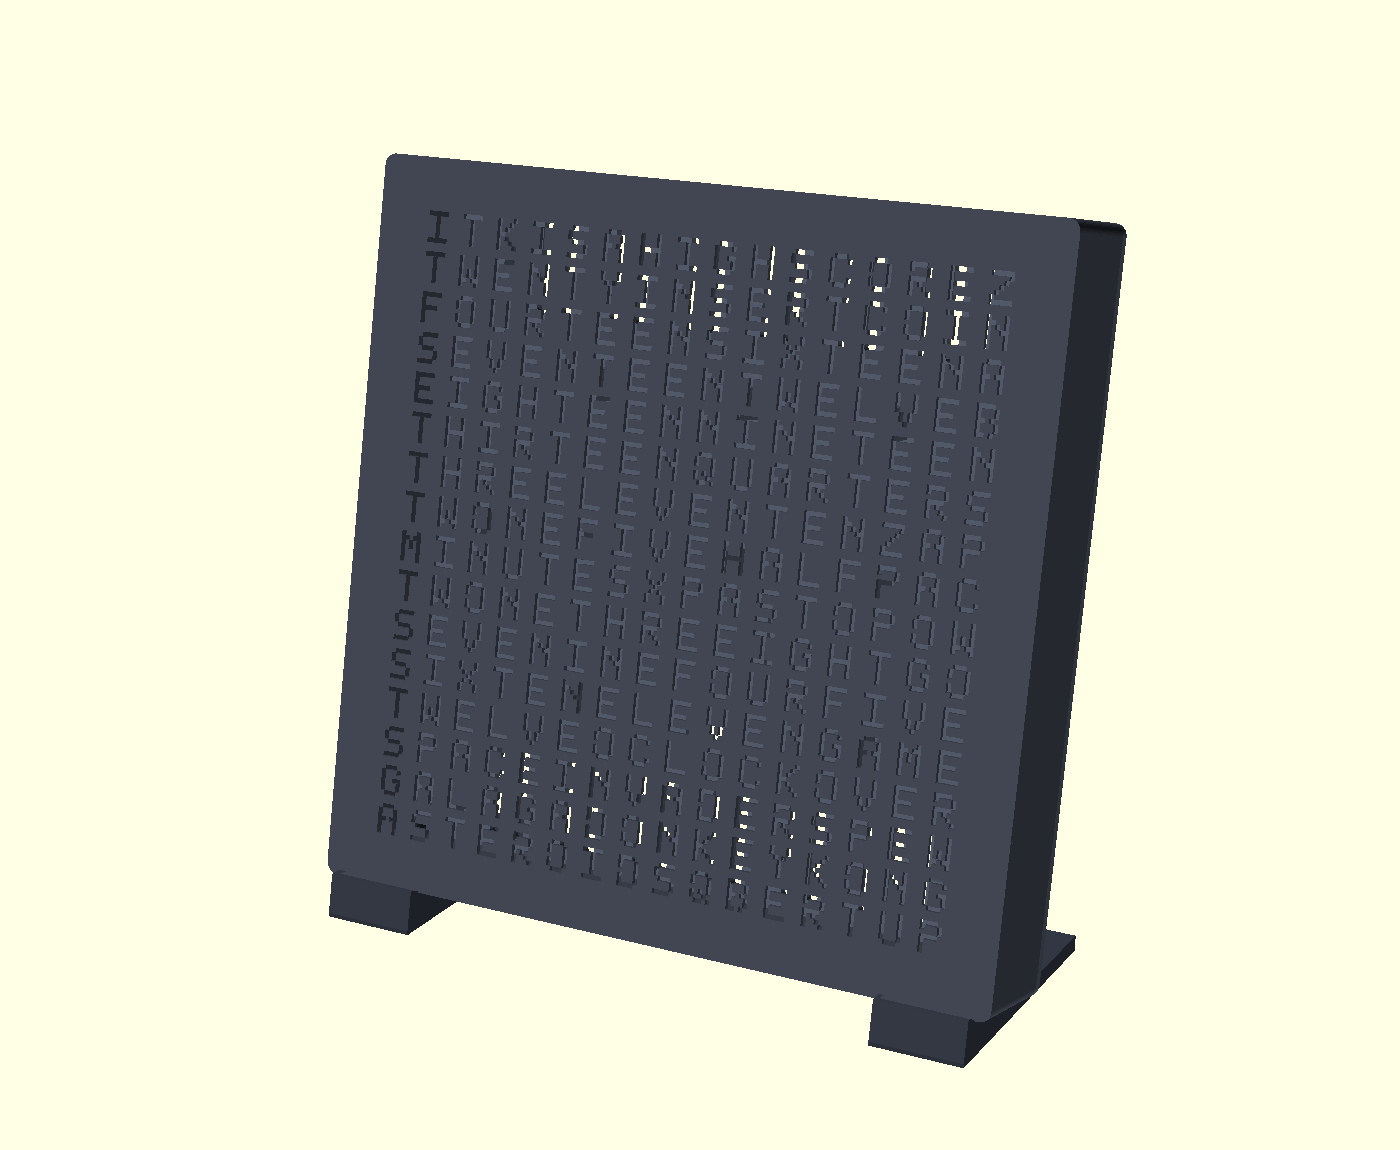
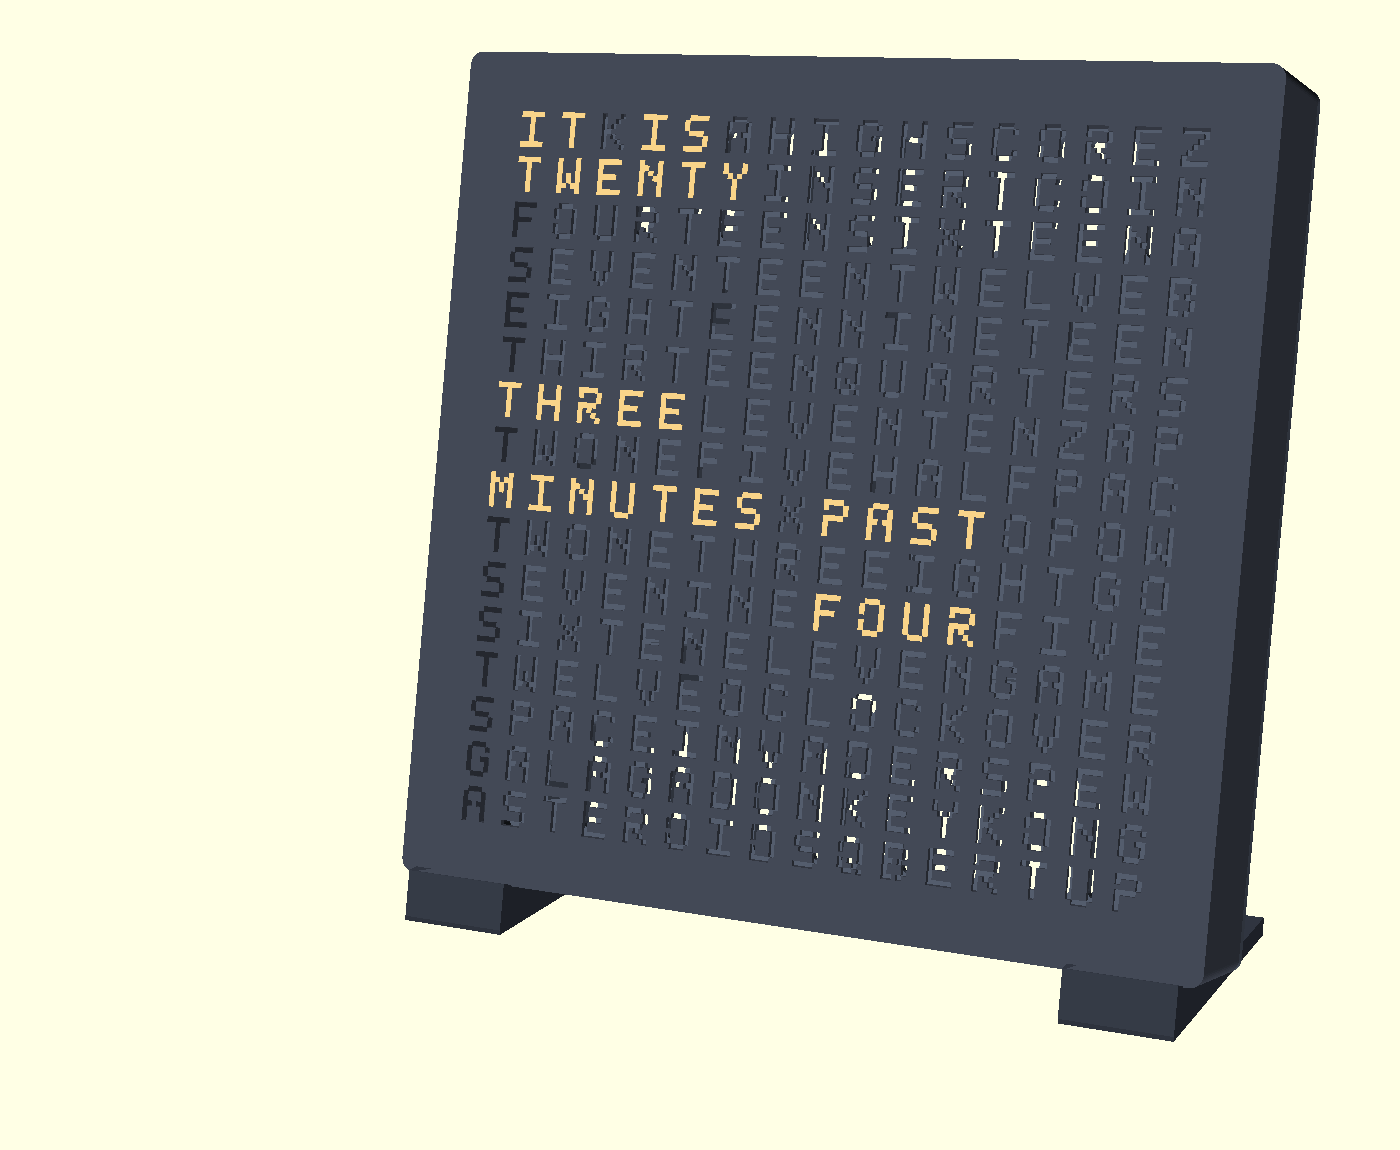
Light the face up in the README renders (face_display toggle)
New preview-only face_display param ("off"/"time"/"invaders") drops
bright glyphs into the stencil voids so assembly renders show the
clock switched on. Hero render now reads IT IS TWENTY THREE MINUTES
PAST FOUR; a second render shows a Space Invaders attract frame.
Word/sprite tables match the firmware. Render commands in DEVLOG.

diff --git a/DEVLOG.md b/DEVLOG.md
@@ -554,3 +554,31 @@ still running warm.
 
 **Reprint required:** `shell()` only — the stencil, diffuser, lattice,
 and panel side of the stack are unchanged.
+
+## README hero renders — lighting the face up (`face_display`)
+
+The landing-page render originally showed the enclosure dark. Since
+the letters are through-voids, "switching the clock on" in a render is
+just dropping bright glyphs into the voids — `face_display` ("off" /
+"time" / "invaders", in the [Part] Customizer tab) does exactly that,
+reusing `letters2d`'s placement/mirror so the lit glyphs land in the
+stencil voids, filled through the plate and 0.05 proud of the front
+face. Preview-only: it draws inside `device()`, so no printable part
+is affected. Word coordinates and the invader/cannon sprites are the
+firmware's own tables (`grid.cpp` / `animations.cpp`, mirrored in
+`docs/simulator.html`).
+
+The committed renders (both 1400×1150, same camera so they read as a
+pair):
+
+```
+openscad -o renders/assembly.png          --imgsize=1400,1150 \
+  --camera=0,0,92,78,0,25,560 -D 'face_display="time"'     wordclock.scad
+openscad -o renders/assembly_invaders.png --imgsize=1400,1150 \
+  --camera=0,0,92,78,0,25,560 -D 'face_display="invaders"' wordclock.scad
+```
+
+`-o png` without `--render` uses the (fast, colour-capable) preview
+renderer, which is what the colour() calls need anyway. The "time"
+frame shows 4:23 — IT IS TWENTY THREE MINUTES PAST FOUR, the same
+per-minute example the README leads with.

diff --git a/README.md b/README.md
@@ -1,6 +1,6 @@
 # TIME INVADERS — arcade word clock
 
-![Assembled word clock on its desk feet](renders/assembly.png)
+![Assembled word clock on its desk feet showing IT IS TWENTY THREE MINUTES PAST FOUR](renders/assembly.png)
 
 A 16×16 word clock with an 8-bit arcade heart: the time reads as words
 to the exact minute (`IT IS TWENTY THREE MINUTES PAST FOUR`), but time
@@ -10,6 +10,12 @@ resolves into the new one — and the filler letters hide arcade words
 DONKEY KONG, ASTEROIDS, Q*BERT). The enclosure is deliberately subtle —
 a plain dark slab that passes at a work desk, on raked feet or
 wall-mounted; the arcade lives in the light, not the shell.
+
+<img src="renders/assembly_invaders.png" width="55%"
+     alt="The same clock showing a frame of the Space Invaders attract animation — an invader sprite and cannon drawn in lit letters">
+
+Every pixel is a letter: the attract-mode sprites are drawn by lighting
+grid cells, like the invader and cannon above.
 
 **▶ [Try it in your browser](https://bitbarista.github.io/word-clock-demo/simulator.html)** —
 live simulator running the real firmware logic: word grid, transitions,
